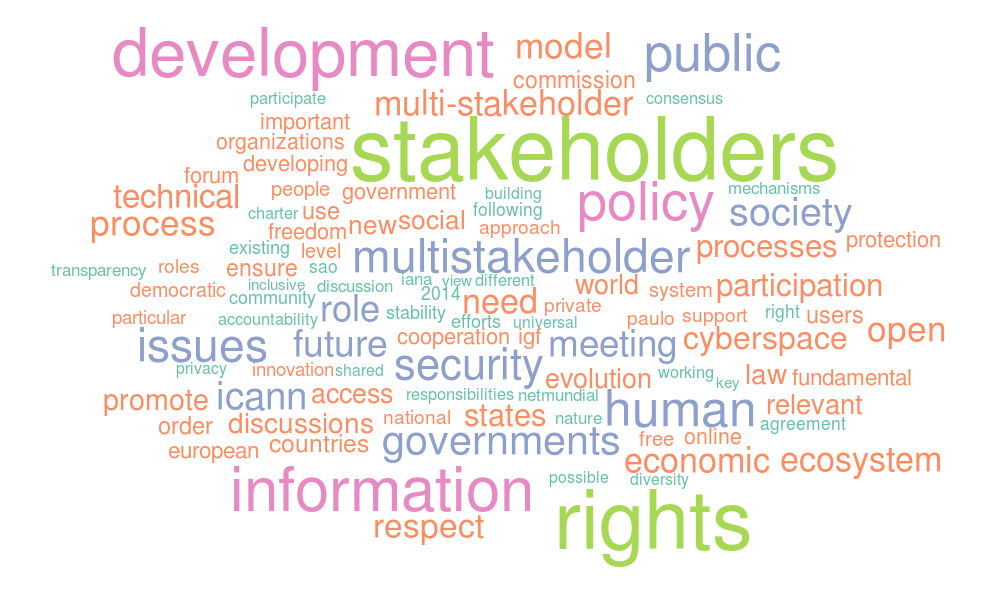
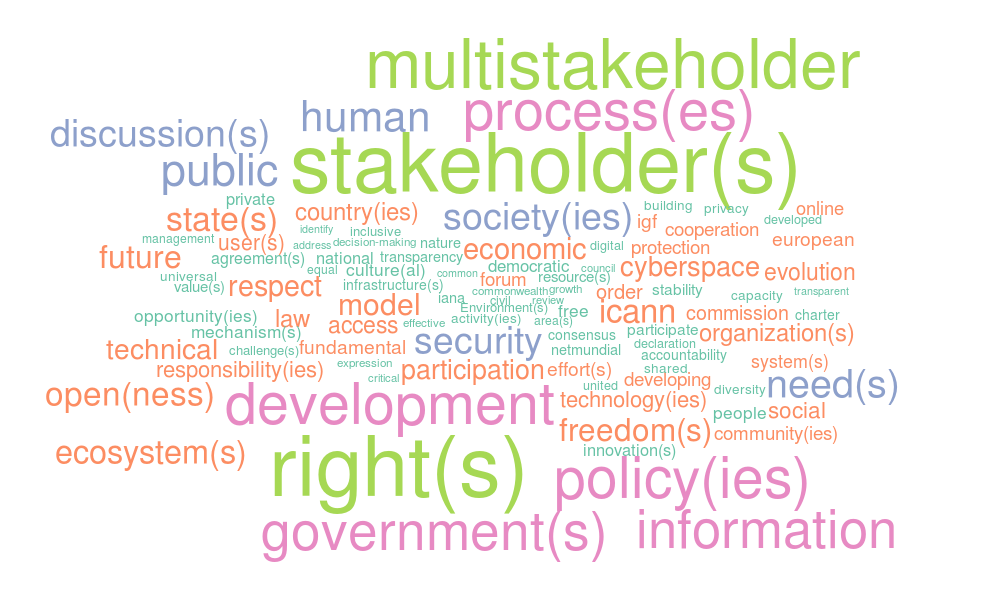
word cloud updates

Changed region(s): [[0.031, 0.03, 0.961, 0.96]]

diff --git a/word_freq_org_type.html b/word_freq_org_type.html
@@ -105,53 +105,53 @@
 			<tr><th>2</th><td class="four">stakeholder(s)</td><td class="five">policy(ies)</td><td class="four">stakeholder(s)</td><td class="four">human</td><td class="five">policy(ies)</td><td class="four">process(es)</td></tr>
 			<tr><th>3</th><td class="three">state(s)</td><td class="four">government(s)</td><td class="four">multistakeholder</td><td class="four">icann</td><td class="four">process(es)</td><td class="three">standard(s)</td></tr>
 			<tr><th>4</th><td class="five">right(s)</td><td class="four">information</td><td class="four">development</td><td class="four">stakeholder(s)</td><td class="four">multistakeholder</td><td class="four">organization(s)</td></tr>
-			<tr><th>5</th><td class="four">government(s)</td><td class="four">process(es)</td><td class="five">policy(ies)</td><td class="four">access</td><td class="three">need(s)</td><td class="four">icann</td></tr>
-			<tr><th>6</th><td class="four">icann</td><td class="four">stakeholder(s)</td><td class="four">process(es)</td><td class="three">group(s)</td><td class="four">information</td><td class="four">development</td></tr>
-			<tr><th>7</th><td class="four">information</td><td class="four">public</td><td class="four">government(s)</td><td class="three">freedom</td><td class="three">model</td><td class="three">technical</td></tr>
-			<tr><th>8</th><td class="two">curriculum</td><td class="four">human</td><td class="four">information</td><td class="four">information</td><td class="four">development</td><td class="four">open(ness)</td></tr>
-			<tr><th>9</th><td class="three">technology(ies)</td><td class="four">multistakeholder</td><td class="four">public</td><td class="three">unesco</td><td class="four">government(s)</td><td class="three">root</td></tr>
-			<tr><th>10</th><td class="four">human</td><td class="three">state(s)</td><td class="four">human</td><td class="four">multistakeholder</td><td class="three">network(s)</td><td class="two">ietf</td></tr>
-			<tr><th>11</th><td class="four">organization(s)</td><td class="four">icann</td><td class="three">need(s)</td><td class="three">service(s)</td><td class="four">organization(s)</td><td class="four">information</td></tr>
-			<tr><th>12</th><td class="two">cyber</td><td class="four">society</td><td class="three">discussion(s)</td><td class="four">process(es)</td><td class="four">open(ness)</td><td class="two">community(ies)</td></tr>
-			<tr><th>13</th><td class="three">need(s)</td><td class="four">open(ness)</td><td class="three">security</td><td class="four">society</td><td class="four">society</td><td class="four">stakeholder(s)</td></tr>
-			<tr><th>14</th><td class="two">country(ies)</td><td class="four">access</td><td class="four">society</td><td class="four">open(ness)</td><td class="three">service(s)</td><td class="three">group(s)</td></tr>
-			<tr><th>15</th><td class="two">analysis</td><td class="four">development</td><td class="three">state(s)</td><td class="four">organization(s)</td><td class="three">technology(ies)</td><td class="four">government(s)</td></tr>
-			<tr><th>16</th><td class="three">technical</td><td class="three">group(s)</td><td class="four">open(ness)</td><td class="four">development</td><td class="four">access</td><td class="four">society</td></tr>
-			<tr><th>17</th><td class="one">brics</td><td class="three">participation</td><td class="four">icann</td><td class="three">security</td><td class="three">discussion(s)</td><td class="two">server(s)</td></tr>
-			<tr><th>18</th><td class="three">group(s)</td><td class="three">need(s)</td><td class="three">future</td><td class="four">public</td><td class="three">technical</td><td class="two">cyberspace</td></tr>
-			<tr><th>19</th><td class="four">process(es)</td><td class="four">communication(s)</td><td class="three">ecosystem(s)</td><td class="four">government(s)</td><td class="three">security</td><td class="four">multistakeholder</td></tr>
-			<tr><th>20</th><td class="four">multistakeholder</td><td class="three">technical</td><td class="three">model</td><td class="three">privacy</td><td class="three">future</td><td class="three">iana</td></tr>
-			<tr><th>21</th><td class="three">online</td><td class="three">igf</td><td class="three">economic</td><td class="two">community(ies)</td><td class="five">right(s)</td><td class="one">review</td></tr>
-			<tr><th>22</th><td class="three">trade</td><td class="three">service(s)</td><td class="two">respect</td><td class="three">national</td><td class="three">user(s)</td><td class="three">network(s)</td></tr>
-			<tr><th>23</th><td class="two">cyberspace</td><td class="two">country(ies)</td><td class="three">technical</td><td class="three">social</td><td class="two">business</td><td class="one">operator(s)</td></tr>
-			<tr><th>24</th><td class="four">open(ness)</td><td class="two">civil</td><td class="two">cyberspace</td><td class="two">expression</td><td class="two">evolution</td><td class="three">service(s)</td></tr>
-			<tr><th>25</th><td class="three">law</td><td class="four">organization(s)</td><td class="three">participation</td><td class="five">policy(ies)</td><td class="two">growth</td><td class="one">individual(s)</td></tr>
-			<tr><th>26</th><td class="three">network(s)</td><td class="three">user(s)</td><td class="two">country(ies)</td><td class="three">user(s)</td><td class="three">support</td><td class="three">user(s)</td></tr>
-			<tr><th>27</th><td class="four">development</td><td class="three">national</td><td class="three">law</td><td class="three">online</td><td class="two">netmundial</td><td class="three">participation</td></tr>
-			<tr><th>28</th><td class="one">practice(s)</td><td class="three">idea</td><td class="four">organization(s)</td><td class="one">charter</td><td class="two">mechanism(s)</td><td class="one">operation(s)</td></tr>
-			<tr><th>29</td><td class="two">cooperation</td><td class="three">privacy</td><td class="four">access</td><td class="two">everyone</td><td class="two">country(ies)</td><td class="one">participate</td></tr>
-			<tr><th>30</th><td class="three">participation</td><td class="three">system(s)</td><td class="two">evolution</td><td class="two">data</td><td class="two">community(ies)</td><td class="one">domain(s)</td></tr>
-			<tr><th>31</th><td class="three">freedom</td><td class="two">data</td><td class="three">social</td><td class="three">iana</td><td class="three">ecosystem(s)</td><td class="three">model</td></tr>
-			<tr><th>32</th><td class="two">data</td><td class="three">people</td><td class="three">user(s)</td><td class="three">need(s)</td><td class="three">economic</td><td class="three">system(s)</td></tr>
-			<tr><th>33</th><td class="one">class</td><td class="three">surveillance</td><td class="one">order</td><td class="two">protection</td><td class="three">participation</td><td class="one">decision(s)</td></tr>
-			<tr><th>34</th><td class="one">education</td><td class="three">freedom</td><td class="one">commission</td><td class="two">knowledge</td><td class="four">public</td><td class="one">member(s)</td></tr>
-			<tr><th>35</th><td class="one">research</td><td class="two">digital</td><td class="one">european</td><td class="three">standard(s)</td><td class="two">innovation(s)</td><td class="two">activity(ies)</td></tr>
-			<tr><th>36</th><td class="three">security</td><td class="three">trade</td><td class="one">fundamental</td><td class="three">technical</td><td class="four">icann</td><td class="two">address</td></tr>
-			<tr><th>37</th><td class="one">actor(s)</td><td class="two">free</td><td class="three">igf</td><td class="two">universality</td><td class="two">industry</td><td class="four">public</td></tr>
-			<tr><th>38</th><td class="three">user(s)</td><td class="three">private</td><td class="two">cooperation</td><td class="two">civil</td><td class="two">mobile</td><td class="three">security</td></tr>
-			<tr><th>39</th><td class="one">document(s)</td><td class="three">root</td><td class="two">developing</td><td class="one">coalition</td><td class="four">human</td><td class="three">ecosystem(s)</td></tr>
-			<tr><th>40</th><td class="three">privacy</td><td class="three">security</td><td class="one">forum</td><td class="three">ecosystem(s)</td><td class="three">national</td><td class="one">board</td></tr>
-			<tr><th>41</th><td class="two">content</td><td class="three">standard(s)</td><td class="three">freedom</td><td class="three">participation</td><td class="three">people</td><td class="three">economic</td></tr>
-			<tr><th>42</th><td class="one">seminar</td><td class="three">future</td><td class="two">protection</td><td class="one">cultural</td><td class="three">online</td><td class="four">access</td></tr>
-			<tr><th>43</th><td class="four">society</td><td class="three">social</td><td class="three">online</td><td class="one">irp</td><td class="two">opportunity</td><td class="three">future</td></tr>
-			<tr><th>44</th><td class="one">framework</td><td class="three">model</td><td class="two">free</td><td class="three">model</td><td class="three">social</td><td class="five">right(s)</td></tr>
-			<tr><th>45</th><td class="one">learning</td><td class="three">iana</td><td class="three">people</td><td class="three">economic</td><td class="three">standard(s)</td><td class="one">ipv</td></tr>
-			<tr><th>46</th><td class="four">public</td><td class="two">political</td><td class="three">system(s)</td><td class="two">content</td><td class="two">data</td><td class="two">cooperation</td></tr>
-			<tr><th>47</th><td class="two">developing</td><td class="three">support</td><td class="one">democratic</td><td class="two">media</td><td class="one">transparent</td><td class="one">oversight</td></tr>
-			<tr><th>48</th><td class="three">private</td><td class="two">content</td><td class="two">innovation(s)</td><td class="one">spectrum</td><td class="one">brazil</td><td class="one">transparency</td></tr>
-			<tr><th>49</th><td class="two">activity(ies)</td><td class="three">law</td><td class="three">national</td><td class="two">address</td><td class="two">developing</td><td class="one">developed</td></tr>
-			<tr><th>50</th><td class="two">media</td><td class="three">economic</td><td class="three">private</td><td class="two">netmundial</td><td class="one">infrastructure</td><td class="one">cctld</td></tr>
-			</tbody>
+			<tr><th>5</th><td class="four">government(s)</td><td class="four">process(es)</td><td class="five">policy(ies)</td><td class="three">freedom(s)</td><td class="three">need(s)</td><td class="four">icann</td></tr>
+			<tr><th>6</th><td class="four">icann</td><td class="four">stakeholder(s)</td><td class="four">process(es)</td><td class="four">access</td><td class="four">information</td><td class="four">development</td></tr>
+			<tr><th>7</th><td class="four">information</td><td class="four">public</td><td class="four">government(s)</td><td class="three">group(s)</td><td class="three">model</td><td class="three">technical</td></tr>
+			<tr><th>8</th><td class="two">curriculum</td><td class="four">human</td><td class="four">information</td><td class="four">society(ies)</td><td class="four">development</td><td class="four">open(ness)</td></tr>
+			<tr><th>9</th><td class="three">technology(ies)</td><td class="four">multistakeholder</td><td class="four">public</td><td class="four">information</td><td class="four">government(s)</td><td class="three">root(s)</td></tr>
+			<tr><th>10</th><td class="four">human</td><td class="three">state(s)</td><td class="four">human</td><td class="two">unesco</td><td class="three">network(s)</td><td class="two">ietf</td></tr>
+			<tr><th>11</th><td class="four">organization(s)</td><td class="four">society(ies)</td><td class="three">need(s)</td><td class="four">multistakeholder</td><td class="four">organization(s)</td><td class="four">society(ies)</td></tr>
+			<tr><th>12</th><td class="two">cyber</td><td class="four">icann</td><td class="three">discussion(s)</td><td class="three">service(s)</td><td class="four">open(ness)</td><td class="two">address(es)</td></tr>
+			<tr><th>13</th><td class="three">need(s)</td><td class="four">open(ness)</td><td class="four">society(ies)</td><td class="four">process(es)</td><td class="four">society(ies)</td><td class="four">information</td></tr>
+			<tr><th>14</th><td class="three">country(ies)</td><td class="four">access</td><td class="three">security</td><td class="four">open(ness)</td><td class="two">business(es)</td><td class="three">community(ies)</td></tr>
+			<tr><th>15</th><td class="two">analysis</td><td class="four">development</td><td class="three">state(s)</td><td class="four">organization(s)</td><td class="three">service(s)</td><td class="four">stakeholder(s)</td></tr>
+			<tr><th>16</th><td class="three">technical</td><td class="three">group(s)</td><td class="four">open(ness)</td><td class="four">development</td><td class="three">technology(ies)</td><td class="two">server(s)</td></tr>
+			<tr><th>17</th><td class="one">brics</td><td class="three">participation</td><td class="four">icann</td><td class="three">security</td><td class="four">access</td><td class="three">group(s)</td></tr>
+			<tr><th>18</th><td class="three">group(s)</td><td class="three">need(s)</td><td class="three">ecosystem(s)</td><td class="four">public</td><td class="three">discussion(s)</td><td class="four">government(s)</td></tr>
+			<tr><th>19</th><td class="four">process(es)</td><td class="three">communication(s)</td><td class="three">future</td><td class="four">government(s)</td><td class="three">technical</td><td class="three">cyberspace</td></tr>
+			<tr><th>20</th><td class="four">multistakeholder</td><td class="three">technical</td><td class="three">freedom(s)</td><td class="three">privacy</td><td class="three">security</td><td class="four">multistakeholder</td></tr>
+			<tr><th>21</th><td class="three">online</td><td class="three">igf</td><td class="three">model</td><td class="three">community(ies)</td><td class="three">future</td><td class="two">iana</td></tr>
+			<tr><th>22</th><td class="three">trade</td><td class="three">service(s)</td><td class="three">economic</td><td class="three">national</td><td class="five">right(s)</td><td class="three">interest(s)</td></tr>
+			<tr><th>23</th><td class="three">cyberspace</td><td class="three">country(ies)</td><td class="two">respect</td><td class="three">social</td><td class="three">user(s)</td><td class="one">review</td></tr>
+			<tr><th>24</th><td class="four">open(ness)</td><td class="three">civil</td><td class="three">technical</td><td class="two">expression</td><td class="two">evolution</td><td class="three">network(s)</td></tr>
+			<tr><th>25</th><td class="two">law</td><td class="four">organization(s)</td><td class="three">cyberspace</td><td class="five">policy(ies)</td><td class="three">communication(s)</td><td class="one">operator(s)</td></tr>
+			<tr><th>26</th><td class="three">network(s)</td><td class="three">user(s)</td><td class="three">participation</td><td class="three">user(s)</td><td class="two">growth</td><td class="three">service(s)</td></tr>
+			<tr><th>27</th><td class="four">development</td><td class="three">freedom(s)</td><td class="three">country(ies)</td><td class="three">online</td><td class="two">support</td><td class="three">individual(s)</td></tr>
+			<tr><th>28</th><td class="one">practice(s)</td><td class="three">national</td><td class="two">law</td><td class="two">charter</td><td class="two">netmundial</td><td class="three">user(s)</td></tr>
+			<tr><th>29</th><td class="two">cooperation</td><td class="two">idea</td><td class="four">organization(s)</td><td class="two">everyone</td><td class="three">mechanism(s)</td><td class="three">participation</td></tr>
+			<tr><th>30</th><td class="three">system(s)</td><td class="three">privacy</td><td class="four">access</td><td class="three">data</td><td class="three">country(ies)</td><td class="one">operation(s)</td></tr>
+			<tr><th>31</th><td class="three">freedom(s)</td><td class="three">system(s)</td><td class="two">evolution</td><td class="two">iana</td><td class="three">community(ies)</td><td class="one">participate</td></tr>
+			<tr><th>32</th><td class="three">participation</td><td class="three">data</td><td class="three">social</td><td class="three">need(s)</td><td class="three">ecosystem(s)</td><td class="one">domain(s)</td></tr>
+			<tr><th>33</th><td class="two">responsibility(ies)</td><td class="three">people</td><td class="two">responsibility(ies)</td><td class="two">protection</td><td class="two">opportunity(ies)</td><td class="three">function(s)</td></tr>
+			<tr><th>34</th><td class="one">relationship</td><td class="two">surveillance</td><td class="three">technology(ies)</td><td class="two">knowledge</td><td class="three">economic</td><td class="three">technology(ies)</td></tr>
+			<tr><th>35</th><td class="four">society(ies)</td><td class="two">digital</td><td class="three">user(s)</td><td class="three">standard(s)</td><td class="three">participation</td><td class="one">number(s)</td></tr>
+			<tr><th>36</th><td class="three">data</td><td class="three">function(s)</td><td class="one">order</td><td class="three">network(s)</td><td class="four">public</td><td class="one">protocol(s)</td></tr>
+			<tr><th>37</th><td class="one">class</td><td class="three">mechanism(s)</td><td class="one">commission</td><td class="three">communication(s)</td><td class="two">innovation(s)</td><td class="three">country(ies)</td></tr>
+			<tr><th>38</th><td class="one">education</td><td class="three">root(s)</td><td class="one">european</td><td class="three">country(ies)</td><td class="four">icann</td><td class="one">registry(ies)</td></tr>
+			<tr><th>39</th><td class="one">research</td><td class="three">trade</td><td class="one">fundamental</td><td class="three">state(s)</td><td class="two">industry</td><td class="three">model</td></tr>
+			<tr><th>40</th><td class="three">security</td><td class="two">decision(s)</td><td class="three">igf</td><td class="three">technical</td><td class="two">mobile</td><td class="three">system(s)</td></tr>
+			<tr><th>41</th><td class="one">actor(s)</td><td class="two">free</td><td class="two">efforts(s)</td><td class="two">universality</td><td class="four">human</td><td class="two">decision(s)</td></tr>
+			<tr><th>42</th><td class="three">user(s)</td><td class="three">community(ies)</td><td class="two">cooperation</td><td class="three">civil</td><td class="three">national</td><td class="two">member(s)</td></tr>
+			<tr><th>43</th><td class="one">document(s)</td><td class="three">interest(s)</td><td class="one">developing</td><td class="three">interest(s)</td><td class="three">people</td><td class="one">activity(ies)</td></tr>
+			<tr><th>44</th><td class="three">community(ies)</td><td class="two">private</td><td class="one">forum</td><td class="one">coalition</td><td class="two">change(s)</td><td class="four">public</td></tr>
+			<tr><th>45</th><td class="three">privacy</td><td class="three">network(s)</td><td class="two">protection</td><td class="three">individual(s)</td><td class="two">structure(s)</td><td class="three">security</td></tr>
+			<tr><th>46</th><td class="one">content</td><td class="three">security</td><td class="three">community(ies)</td><td class="two">member(s)</td><td class="two">infrastructure(s)</td><td class="three">ecosystem(s)</td></tr>
+			<tr><th>47</th><td class="one">seminar</td><td class="three">standard(s)</td><td class="three">online</td><td class="three">ecosystem(s)</td><td class="three">online</td><td class="one">board</td></tr>
+			<tr><th>48</th><td class="one">framework</td><td class="three">future</td><td class="three">system(s)</td><td class="three">participation</td><td class="two">efforts(s)</td><td class="three">discussion(s)</td></tr>
+			<tr><th>49</th><td class="one">learning</td><td class="three">social</td><td class="two">free</td><td class="three">system(s)</td><td class="three">social</td><td class="three">economic</td></tr>
+			<tr><th>50</th><td class="four">public</td><td class="three">individual(s)</td><td class="three">people</td><td class="one">cultural</td><td class="two">create(s)</td><td class="four">access</td></tr>
+		  </tbody>
 		  </table>
 		</div>
       	  </div>
